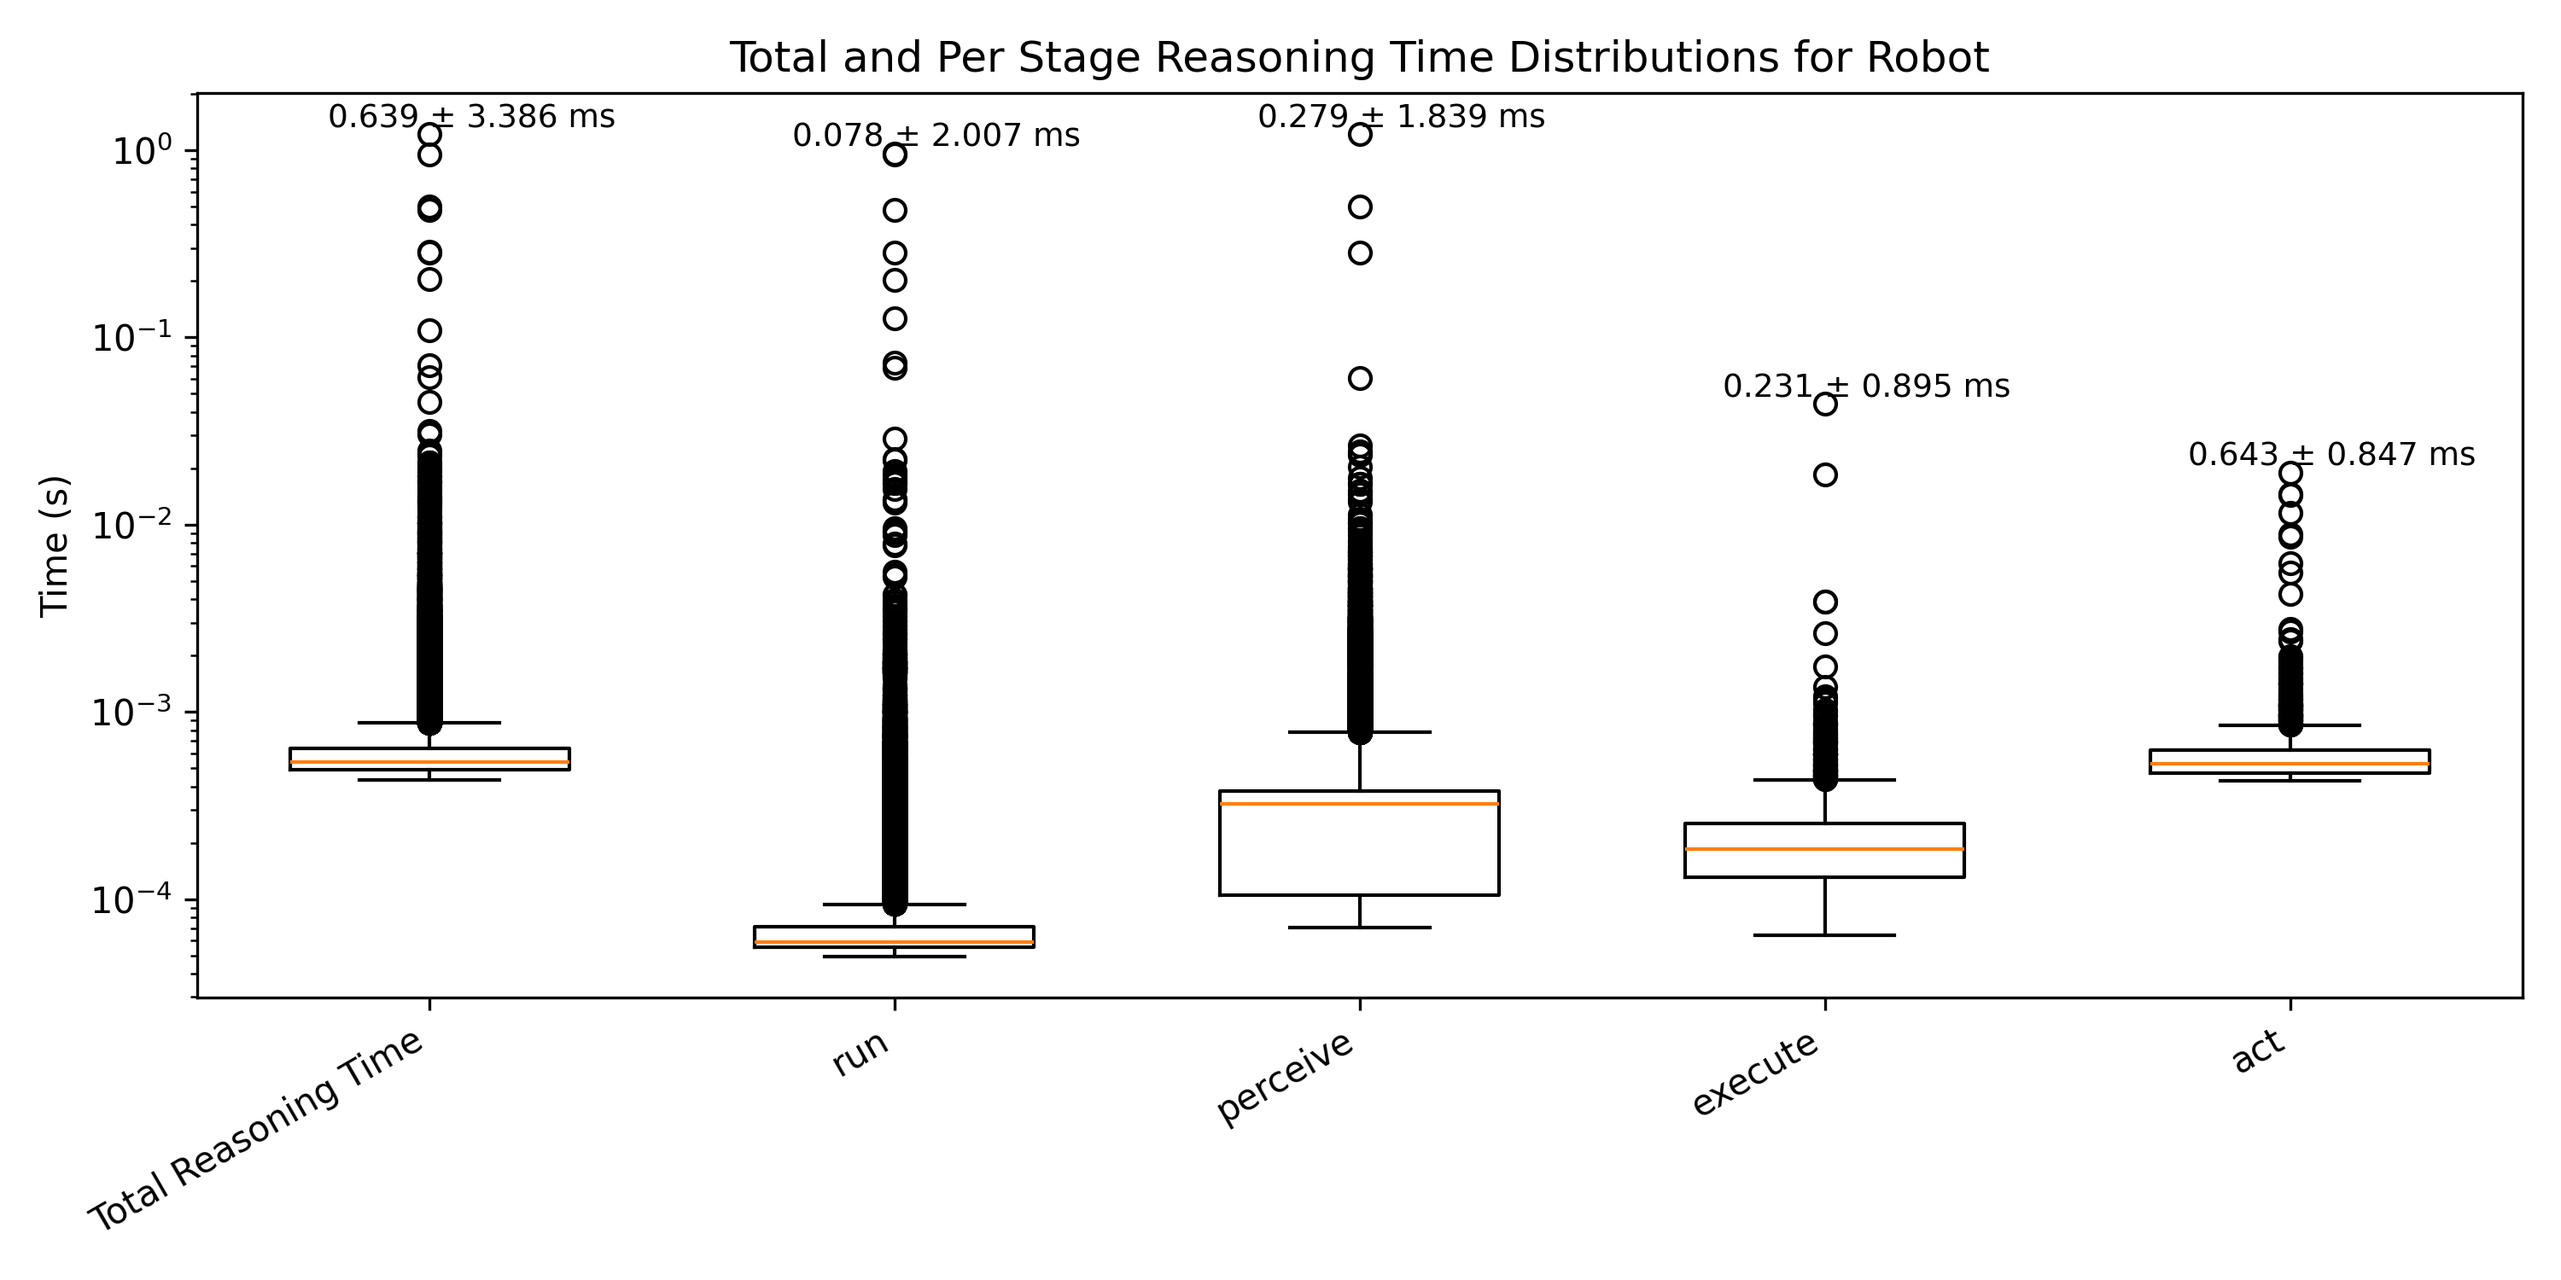
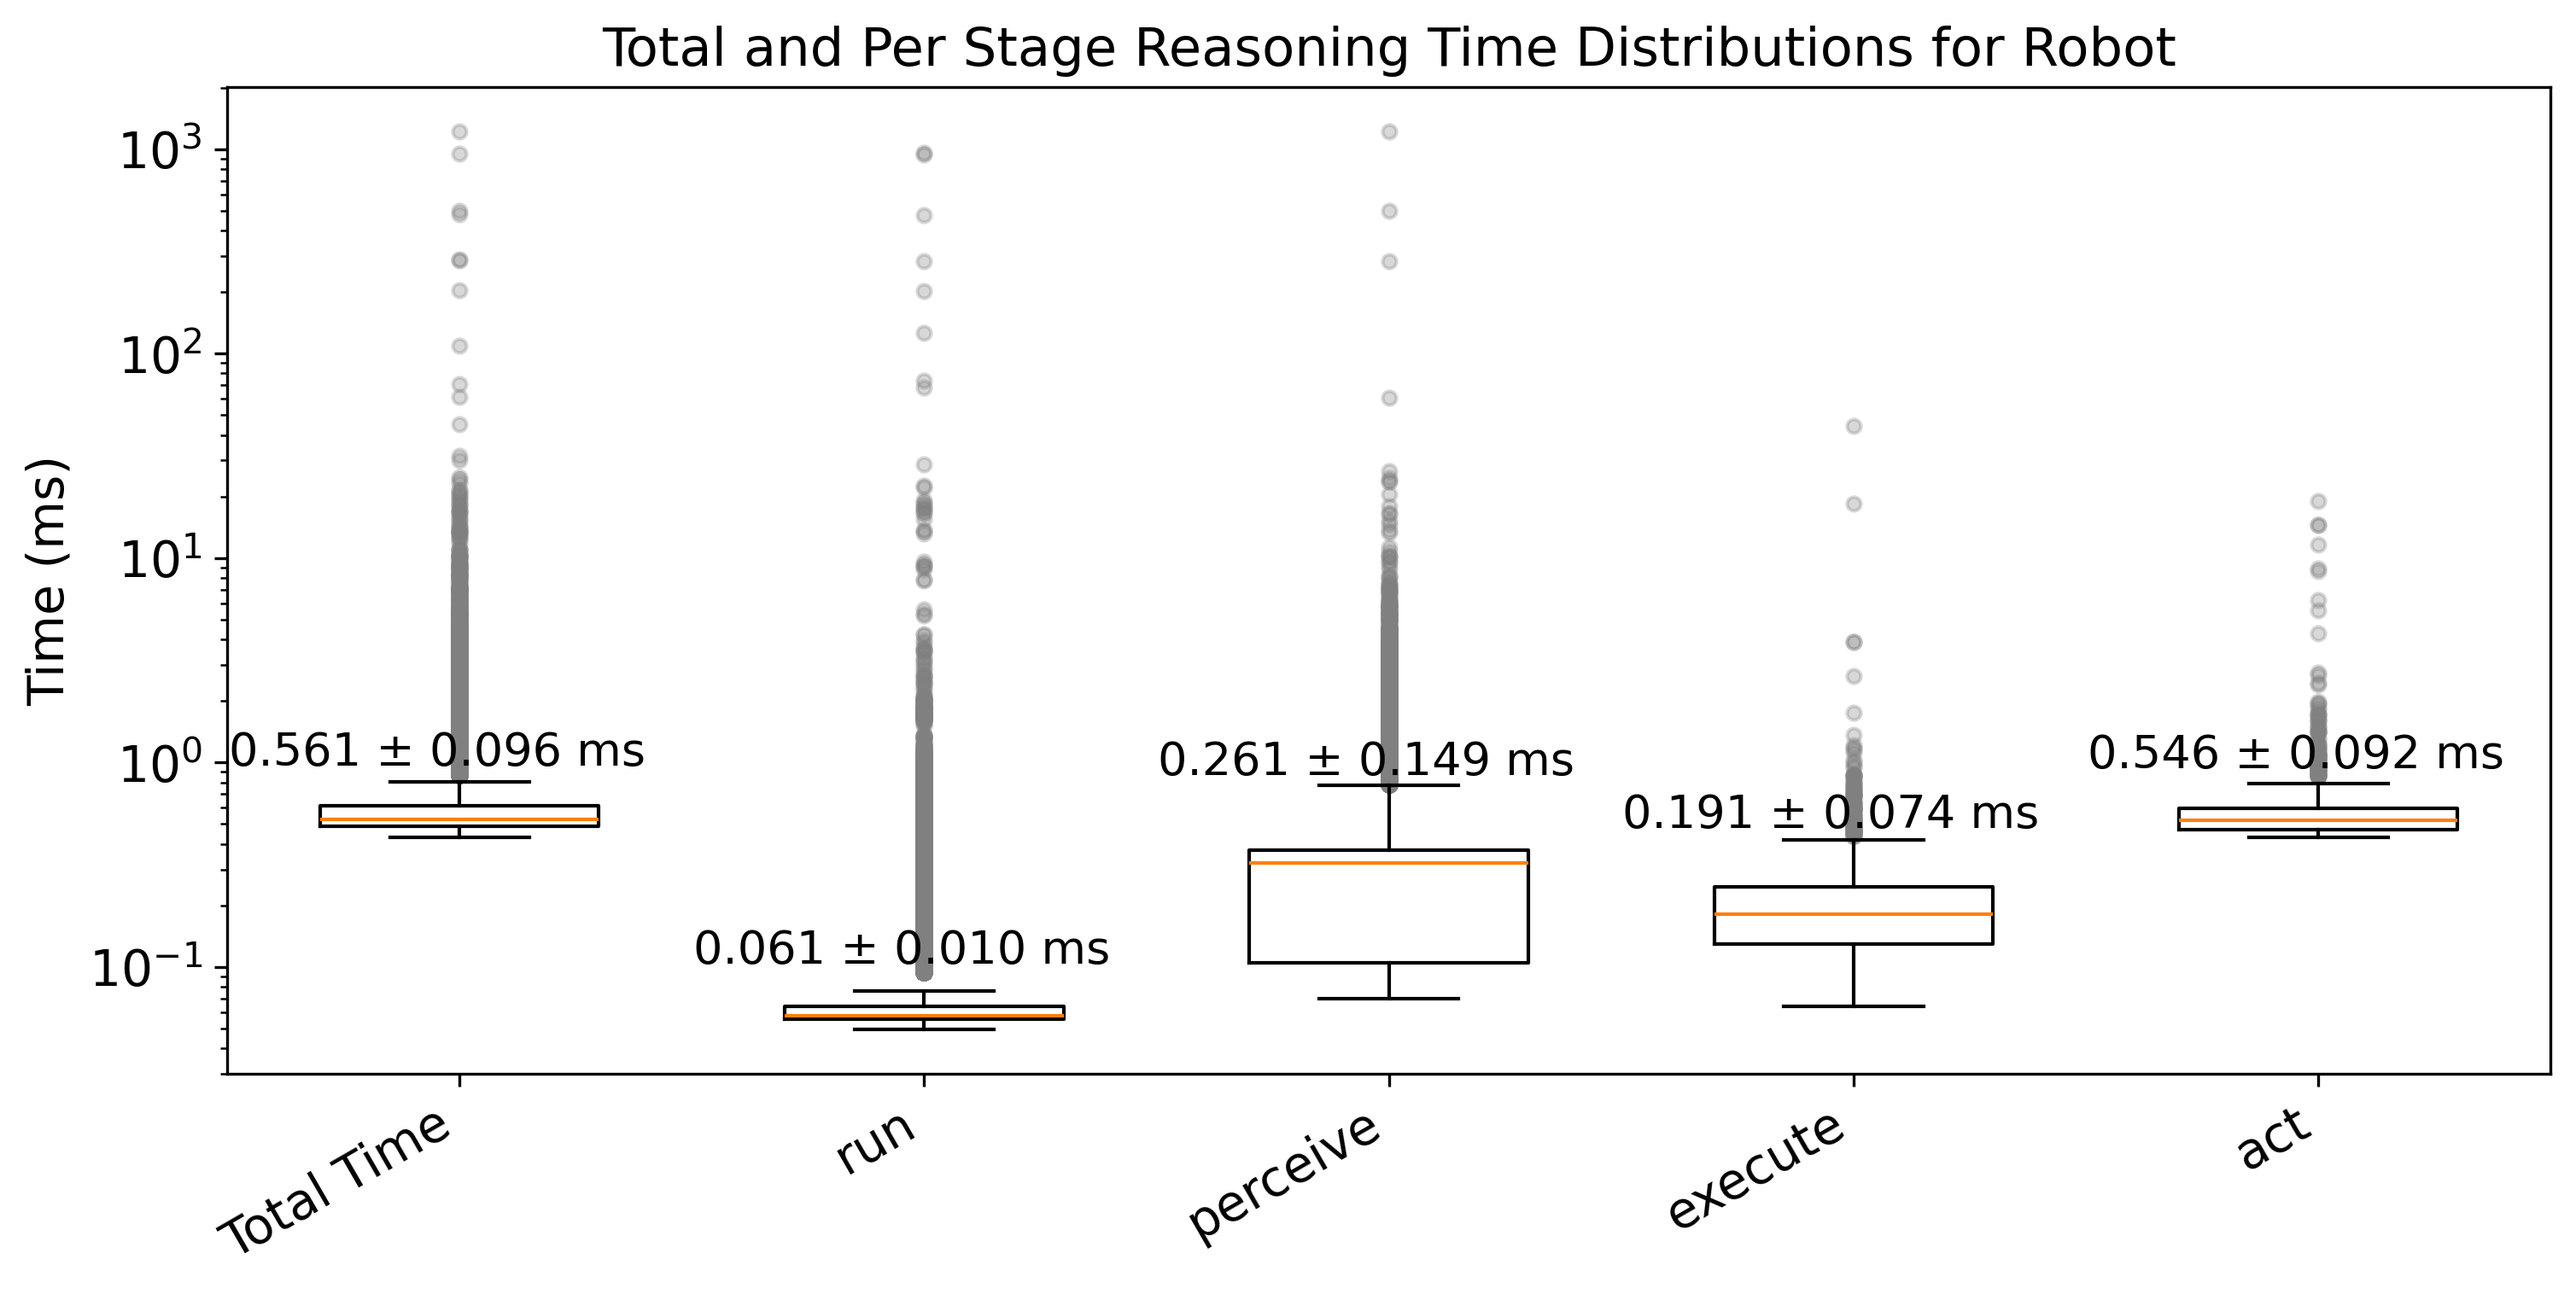
Updated the diagrams to be more paper friendly + updated readme.

diff --git a/miscellaneous/data_analysis/jason_log_analysis/log_parser.py b/miscellaneous/data_analysis/jason_log_analysis/log_parser.py
@@ -4,11 +4,11 @@ from collections import defaultdict
 import matplotlib.pyplot as plt
 import numpy as np
 
-#LOG_FILE = "logs/hermes_simulator.log"
-#NAME = "Simulator"
+LOG_FILE = "logs/hermes_simulator.log"
+NAME = "Simulator"
 
-LOG_FILE = "logs/hermes_robot.log"
-NAME = "Robot"
+#LOG_FILE = "logs/hermes_robot.log"
+#NAME = "Robot"
 
 def parse_log(path):
     tree = ET.parse(path)
@@ -77,7 +77,7 @@ def compute_timings(cycles):
     return cycle_durations, stage_durations
 
 def combined_violin_box(cycle_times, stage_times, out_file):
-    labels = ["Total Reasoning Time"]
+    labels = ["Total Time"]
     data = [cycle_times]
 
     for stage, times in stage_times.items():
@@ -86,48 +86,64 @@ def combined_violin_box(cycle_times, stage_times, out_file):
         labels.append(stage)
         data.append(times)
 
+    def filter_iqr(values, whis=1.5):
+        arr = np.array(values)
+        q1, q3 = np.percentile(arr, 25), np.percentile(arr, 75)
+        iqr = q3 - q1
+        return arr[(arr >= q1 - whis * iqr) & (arr <= q3 + whis * iqr)]
+
+    data_ms = [np.array(d) * 1000 for d in data]
+    filtered_data = [filter_iqr(d) for d in data_ms]
+
     fig, ax = plt.subplots(figsize=(10, 5))
 
+    for i, (original, filtered) in enumerate(zip(data_ms, filtered_data), start=1):
+        outliers = original[~np.isin(original, filtered)]
+        if len(outliers) > 0:
+            ax.scatter(
+                [i] * len(outliers),
+                outliers,
+                color='gray',
+                alpha=0.3,
+                s=15,
+                zorder=1
+            )
+
     ax.boxplot(
-        data,
+        filtered_data,
         vert=True,
         whis=1.5,
-        showfliers=True,
+        showfliers=False,
         widths=0.6
     )
 
     ax.set_yscale("log")
 
-    for i, values in enumerate(data, start=1):
-        values_ms = np.array(values) * 1000.0
-
-        mean = np.mean(values_ms)
-        std  = np.std(values_ms, ddof=1) if len(values_ms) > 1 else 0.0
-
-        label = f"{mean:.3f} ± {std:.3f} ms"
+    for i, values in enumerate(filtered_data, start=1):
+        mean = np.mean(values)
+        std  = np.std(values, ddof=1) if len(values) > 1 else 0.0
 
         ax.text(
-            i + 0.4,          
+            i + 0.4,
             max(values),
-            label,
-            fontsize=9,
+            f"{mean:.3f} ± {std:.3f} ms",
+            fontsize=13,
             ha='right',
             va='bottom',
             color='black',
             zorder=10
         )
 
-
     ax.set_xticks(range(1, len(labels) + 1))
-    ax.set_xticklabels(labels, rotation=30, ha="right")
+    ax.set_xticklabels(labels, rotation=30, ha="right", fontsize=14)
 
+    ax.tick_params(axis='y', labelsize=14)
+    ax.set_ylabel("Time (ms)", fontsize=14)
+    ax.set_title("Total and Per Stage Reasoning Time Distributions for " + NAME, fontsize=15)
 
-    ax.set_ylabel("Time (s)")
-    ax.set_title("Total and Per Stage Reasoning Time Distributions for " + NAME)
-
-    plt.tight_layout()
-    file_name = "plots/" + out_file + "_time_distribution.png"
-    plt.savefig(file_name, dpi=300)
+    plt.tight_layout(pad=0.5)
+    file_name = "plots/" + out_file.lower() + "_time_distribution.png"
+    plt.savefig(file_name, dpi=300, bbox_inches='tight')
     plt.close()
 
     print(f"Saved plot to {file_name}")

diff --git a/README.md b/README.md
@@ -408,7 +408,7 @@ Hermes is designed to be fully automated allowing it to run multiple headless ru
 $ ./run_experiment.sh
 ```
 
-The results of this experiment along with an analysis of them are located at [trip_data_analysis](miscellaneous/data_analysis/metrics_analysis/)
+The results of this experiment along with an analysis of both the robot and Jason's performance are located at [data_analysis](miscellaneous/data_analysis/)
 
 ## Project Structure
 - **hermes_create_description:** This package includes the Gazebo descriptions for the robotcs, sensors, and the dock station. It also includes the appropriate launch files for spawning these objects.
